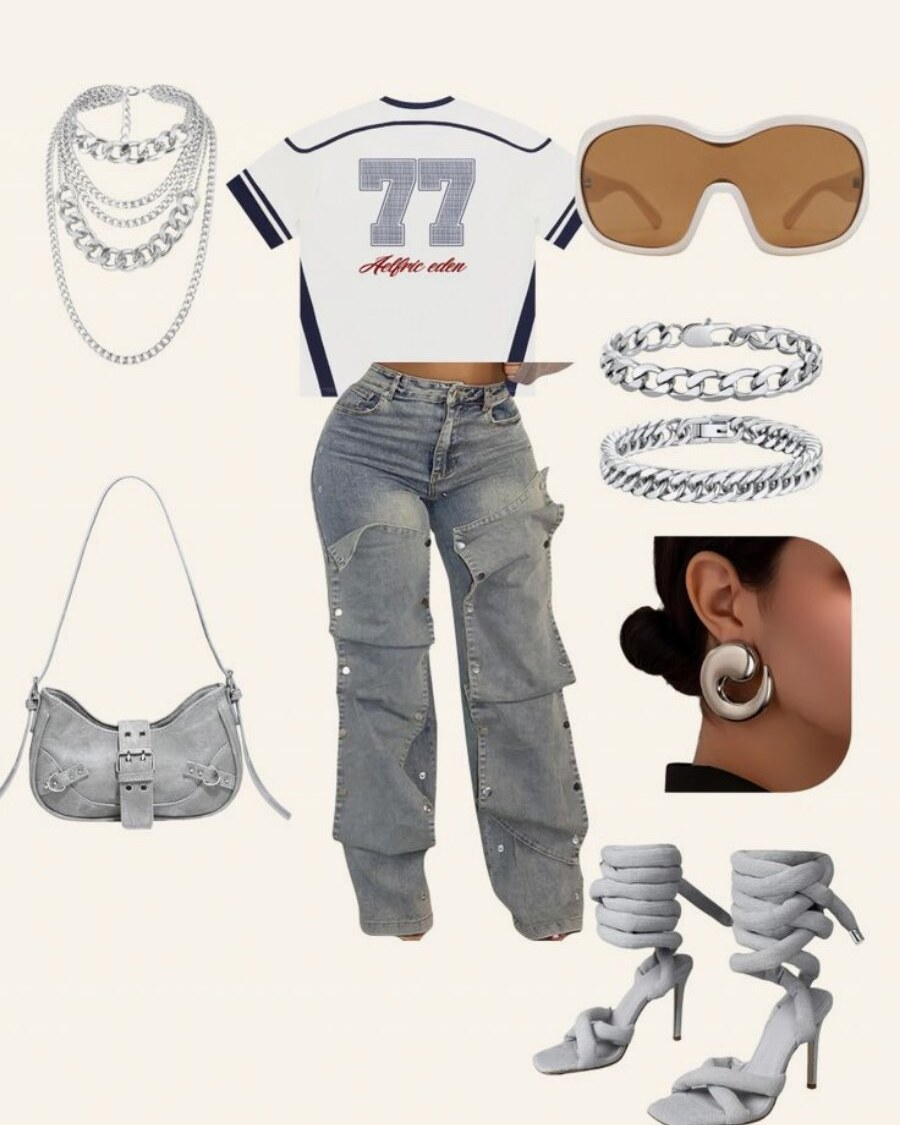
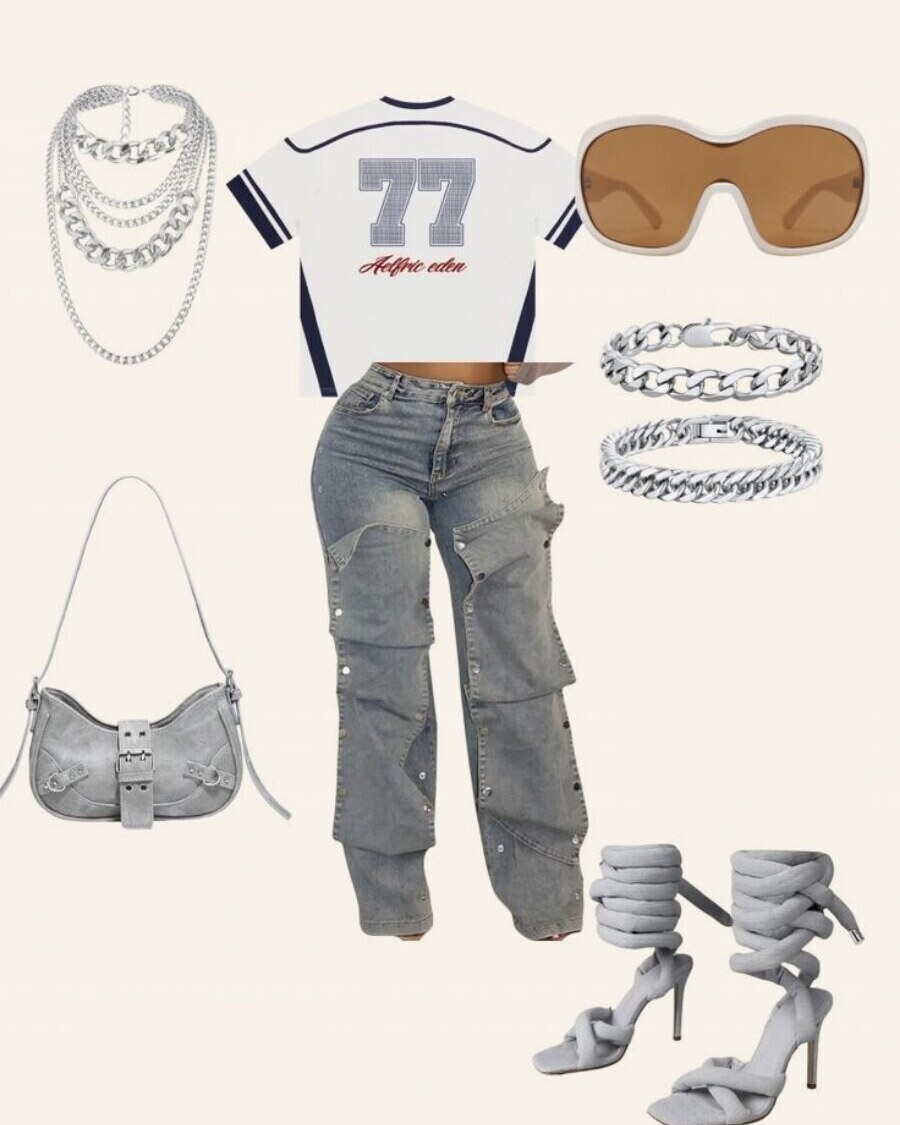
Lookbook: same card order on every look, softer polka dots, pill behind the handle, corner portrait removed from the day-out board
Claude-Session: https://claude.ai/code/session_01FUdN8BrrqRcBgv91ujUewX

Changed region(s): [[0.6844, 0.4667, 0.9644, 0.7156]]

diff --git a/theme.css b/theme.css
@@ -951,7 +951,7 @@ main p,section p{max-width:56ch;}
 .price small,.vd-prices small,.price span{font-family:var(--font-body);font-size:13px;}
 
 /* ---------- Lookbook: "daily edit" layout (blush polka dots, scalloped plates) ---------- */
-.lbk-wall{background-color:#F3D8D0; background-image:radial-gradient(circle at 16px 16px, rgba(255,255,255,.92) 0 9px, transparent 10px), radial-gradient(circle at 44px 44px, rgba(255,255,255,.92) 0 9px, transparent 10px); background-size:56px 56px; padding:clamp(2.2rem,6vw,4rem) 20px clamp(2.4rem,6vw,4rem);}
+.lbk-wall{background-color:#F3D8D0; background-image:radial-gradient(circle at 16px 16px, rgba(255,255,255,.62) 0 9px, transparent 10px), radial-gradient(circle at 44px 44px, rgba(255,255,255,.62) 0 9px, transparent 10px); background-size:56px 56px; padding:clamp(2.2rem,6vw,4rem) 20px clamp(2.4rem,6vw,4rem);}
 .lbk-hero{max-width:640px; margin:0 auto; text-align:center; padding-bottom:clamp(2rem,6vw,3.4rem);}
 .lbk-eyebrow{margin:0 0 .5rem; font:500 11px var(--font-body); letter-spacing:.34em; text-transform:uppercase; color:#8B1226;}
 .lbk-title{margin:0 0 1.2rem; font-family:var(--font-display); font-style:italic; font-weight:500; color:#2A1814; line-height:1; font-size:clamp(3rem,15vw,5.8rem); letter-spacing:-.01em; text-transform:lowercase;}
@@ -962,14 +962,15 @@ main p,section p{max-width:56ch;}
 .lbk-photo{position:absolute; left:9%; top:7.5%; width:82%; height:85%; object-fit:cover; object-position:56% 30%; border-radius:26px 26px 22px 22px;}
 .lbk-sticker{position:absolute; right:-6%; top:-4%; width:30%; aspect-ratio:1; border-radius:50%; background:#fff; border:3px solid #8B1226; box-shadow:0 8px 12px -6px rgba(0,0,0,.35); display:flex; align-items:center; justify-content:center; transform:rotate(8deg);}
 .lbk-sticker img{width:68%; height:auto; display:block;}
-.lbk-hand{margin:1.4rem 0 0; font-family:var(--font-display); font-style:italic; font-size:1.15rem; color:#2A1814;}
+.lbk-hand{margin:1.5rem 0 0;}
+.lbk-hand span{display:inline-block; padding:.35rem 1rem; border-radius:999px; background:rgba(255,255,255,.78); font-family:var(--font-display); font-style:italic; font-size:1.15rem; color:#2A1814;}
 .lbk-looks{max-width:1100px; margin:0 auto;}
-.lbk-look{display:grid; grid-template-columns:1fr; gap:1.2rem; justify-items:center; padding:0 0 clamp(2.4rem,7vw,4rem);}
+.lbk-look{display:flex; flex-direction:column; align-items:center; gap:1.2rem; padding:0 0 clamp(2.4rem,7vw,4rem);}
 .lbk-pic{position:relative; display:block; width:min(100%,380px); aspect-ratio:900/1125; padding:0; border:0; background:none; cursor:zoom-in; filter:drop-shadow(0 18px 16px rgba(90,30,30,.26)); transition:transform .3s ease;}
 .lbk-pic:hover,.lbk-pic:focus-visible{transform:translateY(-3px) rotate(-.6deg);}
 .lbk-pic:focus-visible{outline:2px solid #8B1226; outline-offset:6px;}
 .lbk-art{position:absolute; left:9%; top:7%; width:82%; height:86%; object-fit:cover; mix-blend-mode:multiply; filter:brightness(1.09);}
-.lbk-info{width:min(100%,380px);}
+.lbk-info{width:min(100%,380px); background:rgba(255,255,255,.55); border-radius:14px; padding:.9rem 1rem 1rem;}
 .lbk-idx{display:flex; justify-content:space-between; margin:0 0 .7rem; padding-bottom:.6rem; border-bottom:1.5px solid #2A1814; font:500 11px var(--font-body); letter-spacing:.26em; text-transform:uppercase; color:#2A1814;}
 .lbk-idx span:last-child{color:#8B1226;}
 .lbk-name{margin:0 0 1.1rem; font-family:var(--font-display); font-style:italic; font-weight:500; font-size:clamp(1.8rem,6.4vw,2.4rem); line-height:1.05; color:#2A1814;}
@@ -979,7 +980,7 @@ main p,section p{max-width:56ch;}
 .rsq i > i{padding:19%;}
 .lbk-cols{list-style:none; margin:0; padding:0; display:grid; gap:.32rem;}
 .lbk-cols li{display:flex; align-items:center; gap:.55rem; font:500 11px var(--font-body); letter-spacing:.16em; text-transform:uppercase; color:#2A1814;}
-.lbk-cols b{width:10px; height:10px; flex:none; border-radius:50%; box-shadow:0 0 0 2px #fff;}
+.lbk-cols b{width:11px; height:11px; flex:none; border-radius:50%; box-shadow:0 0 0 1px rgba(42,24,20,.35), 0 0 0 3px #fff;}
 .lbk-end{background:#6A1020; color:#FCF3EE; text-align:center; padding:clamp(2.8rem,8vw,4.6rem) 20px clamp(2.4rem,7vw,3.6rem);}
 .lbk-end p{max-width:none; margin-left:auto; margin-right:auto;}
 .lbk-end-mark{margin:0 0 .6rem; font-family:var(--font-display); font-style:italic; font-weight:500; font-size:clamp(2.4rem,10vw,3.8rem); line-height:1;}
@@ -990,11 +991,9 @@ main p,section p{max-width:56ch;}
 .lbk-btn:hover,.lbk-btn:focus-visible{background:#F3D8D0; border-color:#F3D8D0; color:#6A1020;}
 .lbk-note{margin:0; font-size:12px; color:#D7B1AB;}
 @media (min-width:900px){
-  .lbk-look{grid-template-columns:minmax(0,1fr) minmax(0,1fr); gap:clamp(2rem,6vw,5rem); align-items:center; justify-items:stretch;}
-  .lbk-pic{justify-self:end; width:min(100%,400px);}
-  .lbk-info{justify-self:start;}
-  .lbk-look:nth-child(even) .lbk-pic{order:2; justify-self:start;}
-  .lbk-look:nth-child(even) .lbk-info{order:1; justify-self:end;}
+  .lbk-looks{display:grid; grid-template-columns:repeat(2,minmax(0,1fr)); gap:0 clamp(2rem,6vw,5rem); max-width:960px;}
+  .lbk-pic{width:min(100%,400px);}
+  .lbk-info{width:min(100%,400px);}
   .lbk-end-btns{flex-direction:row; max-width:none; justify-content:center;}
   .lbk-btn{min-width:230px;}
   .lbk-pl{width:360px;}

diff --git a/digital-coloring-book.html b/digital-coloring-book.html
@@ -24,7 +24,7 @@
 <link rel="preconnect" href="https://fonts.googleapis.com">
 <link rel="preconnect" href="https://fonts.gstatic.com" crossorigin>
 <link href="https://fonts.googleapis.com/css2?family=Cormorant+Garamond:ital,wght@0,400;0,500;0,600;1,400&family=Plus+Jakarta+Sans:wght@400;500;600&display=swap" rel="stylesheet">
-<link rel="stylesheet" href="theme.css?v=c7718374">
+<link rel="stylesheet" href="theme.css?v=804658d0">
 <link rel="preload" as="image" href="images/digitals/coloring-book-cover.jpg" fetchpriority="high">
 <script type="application/ld+json">{"@context":"https://schema.org","@type":"Product","name":"The HerStyleVault Fashion & Cocktail Coloring Book","description":"A chic escape where classic cocktail culture meets high-fashion aesthetics. Each chapter pairs an iconic drink with curated style illustrations and a little cocktail history, made for slow evenings and creative self-care.","image":["https://herstylevault.com/images/digitals/coloring-book-cover.jpg"],"brand":{"@type":"Brand","name":"HerStyleVault"},"url":"https://herstylevault.com/digital-coloring-book.html","category":"windown","offers":{"@type":"AggregateOffer","priceCurrency":"USD","lowPrice":"14.99","highPrice":"44.99","offerCount":4,"offers":[{"@type":"Offer","name":"Coloring Book: Digital PDF","price":"14.99","priceCurrency":"USD","url":"https://herstylevault.com/digital-coloring-book.html","availability":"https://schema.org/PreOrder","itemCondition":"https://schema.org/NewCondition","seller":{"@type":"Organization","name":"HerStyleVault"}},{"@type":"Offer","name":"Coloring Book: Paper Copy","price":"29.99","priceCurrency":"USD","url":"https://herstylevault.com/digital-coloring-book.html","availability":"https://schema.org/PreOrder","itemCondition":"https://schema.org/NewCondition","seller":{"@type":"Organization","name":"HerStyleVault"}},{"@type":"Offer","name":"Coloring Book: Hard Copy","price":"44.99","priceCurrency":"USD","url":"https://herstylevault.com/digital-coloring-book.html","availability":"https://schema.org/PreOrder","itemCondition":"https://schema.org/NewCondition","seller":{"@type":"Organization","name":"HerStyleVault"}},{"@type":"Offer","name":"Coloring Book: Digital + Paper Copy","price":"34.99","priceCurrency":"USD","url":"https://herstylevault.com/digital-coloring-book.html","availability":"https://schema.org/PreOrder","itemCondition":"https://schema.org/NewCondition","seller":{"@type":"Organization","name":"HerStyleVault"}}]}}</script>
 <script type="application/ld+json">{"@context":"https://schema.org","@type":"BreadcrumbList","itemListElement":[{"@type":"ListItem","position":1,"name":"Home","item":"https://herstylevault.com/"},{"@type":"ListItem","position":2,"name":"Vault Digitals","item":"https://herstylevault.com/vault-digitals.html"},{"@type":"ListItem","position":3,"name":"The HerStyleVault Fashion & Cocktail Coloring Book","item":"https://herstylevault.com/digital-coloring-book.html"}]}</script>

diff --git a/locations.html b/locations.html
@@ -24,7 +24,7 @@
 <link rel="preconnect" href="https://fonts.googleapis.com">
 <link rel="preconnect" href="https://fonts.gstatic.com" crossorigin>
 <link href="https://fonts.googleapis.com/css2?family=Cormorant+Garamond:ital,wght@0,400;0,500;0,600;1,400&family=Plus+Jakarta+Sans:wght@400;500;600&display=swap" rel="stylesheet">
-<link rel="stylesheet" href="theme.css?v=c7718374">
+<link rel="stylesheet" href="theme.css?v=804658d0">
 <script type="application/ld+json">{"@context": "https://schema.org", "@type": ["ProfessionalService", "LocalBusiness"], "@id": "https://herstylevault.com/#business", "name": "HerStyleVault", "description": "Personal stylist serving Greater Boston, Northern Massachusetts and Southern New Hampshire in person, and clients anywhere in the US virtually. Free first consultation.", "url": "https://herstylevault.com", "email": "hello@herstylevault.com", "image": "https://herstylevault.com/images/Hero_Closet.jpg", "priceRange": "$28.99-$725", "founder": {"@type": "Person", "name": "Adebisi"}, "address": {"@type": "PostalAddress", "addressRegion": "MA", "addressCountry": "US"}, "areaServed": [{"@type": "AdministrativeArea", "name": "Greater Boston, MA"}, {"@type": "AdministrativeArea", "name": "Northern Massachusetts"}, {"@type": "AdministrativeArea", "name": "Southern New Hampshire"}, {"@type": "Country", "name": "United States", "description": "Virtual styling available nationwide"}], "serviceType": ["Personal styling", "Color analysis", "Body shape styling", "Wardrobe consulting", "Closet declutter and organization", "Outfit building"], "knowsAbout": ["Personal styling", "Seasonal color analysis", "Capsule wardrobes", "Wardrobe declutter"], "hasOfferCatalog": {"@type": "OfferCatalog", "name": "Styling packages and services", "itemListElement": [{"@type": "Offer", "name": "The Unlock (3 sessions, 5 outfit builds)", "price": "225", "priceCurrency": "USD", "url": "https://herstylevault.com/packages.html"}, {"@type": "Offer", "name": "The Vault Edit (4 sessions, 7 outfit builds)", "price": "400", "priceCurrency": "USD", "url": "https://herstylevault.com/packages.html"}, {"@type": "Offer", "name": "The Full Reveal (5 sessions, 10 outfit builds, in person)", "price": "725", "priceCurrency": "USD", "url": "https://herstylevault.com/packages.html"}, {"@type": "Offer", "name": "Signature Style Report", "price": "40", "priceCurrency": "USD", "url": "https://herstylevault.com/digital-signature-style-report.html"}]}, "sameAs": ["https://instagram.com/herstylevault.official", "https://pinterest.com/HerStyleVault"]}</script>
 </head>
 <body>

diff --git a/lookbook.html b/lookbook.html
@@ -24,7 +24,7 @@
 <link rel="preconnect" href="https://fonts.googleapis.com">
 <link rel="preconnect" href="https://fonts.gstatic.com" crossorigin>
 <link href="https://fonts.googleapis.com/css2?family=Cormorant+Garamond:ital,wght@0,400;0,500;0,600;1,400&family=Plus+Jakarta+Sans:wght@400;500;600&display=swap" rel="stylesheet">
-<link rel="stylesheet" href="theme.css?v=c7718374">
+<link rel="stylesheet" href="theme.css?v=804658d0">
 </head>
 <body>
 <header class="site"><nav><div class="nav-mount"></div></nav></header>
@@ -34,7 +34,7 @@
 <p class="lbk-eyebrow">Vol. 01 &middot; Fall &middot; Winter</p>
 <h1 class="lbk-title" id="lbkTitle"><span class="h1-kw">Personal Styling Lookbook</span><span aria-hidden="true">the lookbook</span></h1>
 <div class="lbk-me" id="lbkMe"></div>
-<p class="lbk-hand">@herstylevault.official</p>
+<p class="lbk-hand"><span>@herstylevault.official</span></p>
 </section>
 
 <section class="lbk-looks" id="lookGrid" aria-label="The looks"></section>
@@ -73,10 +73,10 @@
   grid.innerHTML = LOOKBOOK.map(function(i, n){
     var num = ('0' + (n + 1)).slice(-2);
     return '<article class="lbk-look">' +
-      '<button type="button" class="lbk-pic look-open" data-n="' + n + '" aria-label="View bigger: ' + i.title + '">' + plate() + '<img class="lbk-art" src="' + i.art + '" alt="' + i.alt + '" loading="lazy"></button>' +
       '<div class="lbk-info"><p class="lbk-idx"><span>' + num + ' / ' + ('0' + LOOKBOOK.length).slice(-2) + '</span><span>' + i.tag + '</span></p>' +
       '<h2 class="lbk-name">' + i.title + '</h2>' +
-      '<div class="lbk-pal">' + ripple(i.colors) + '<ul class="lbk-cols">' + i.colors.map(function(c){ return '<li><b style="background:' + c[1] + '"></b>' + c[0] + '</li>'; }).join('') + '</ul></div></div></article>';
+      '<div class="lbk-pal">' + ripple(i.colors) + '<ul class="lbk-cols">' + i.colors.map(function(c){ return '<li><b style="background:' + c[1] + '"></b>' + c[0] + '</li>'; }).join('') + '</ul></div></div>' +
+      '<button type="button" class="lbk-pic look-open" data-n="' + n + '" aria-label="View bigger: ' + i.title + '">' + plate() + '<img class="lbk-art" src="' + i.art + '" alt="' + i.alt + '" loading="lazy"></button></article>';
   }).join('');
   function close(){ var m = document.getElementById('lookBox'); if (m) { m.parentNode.removeChild(m); document.body.style.overflow = ''; document.removeEventListener('keydown', esc); } }
   function esc(e){ if (e.key === 'Escape') close(); }

diff --git a/service-occasion-edit.html b/service-occasion-edit.html
@@ -24,7 +24,7 @@
 <link rel="preconnect" href="https://fonts.googleapis.com">
 <link rel="preconnect" href="https://fonts.gstatic.com" crossorigin>
 <link href="https://fonts.googleapis.com/css2?family=Cormorant+Garamond:ital,wght@0,400;0,500;0,600;1,400&family=Plus+Jakarta+Sans:wght@400;500;600&display=swap" rel="stylesheet">
-<link rel="stylesheet" href="theme.css?v=c7718374">
+<link rel="stylesheet" href="theme.css?v=804658d0">
 <link rel="preload" as="image" href="images/offers/occasion-edit.jpg" fetchpriority="high">
 <script type="application/ld+json">{"@context":"https://schema.org","@type":"Service","name":"Occasion Edit","serviceType":"Personal styling service","description":"Tell me what it's for and walk in knowing exactly what to wear.","url":"https://herstylevault.com/service-occasion-edit.html","image":"https://herstylevault.com/images/share/service-occasion-edit.jpg","provider":{"@id":"https://herstylevault.com/#business"},"areaServed":[{"@type":"AdministrativeArea","name":"Greater Boston, MA"},{"@type":"AdministrativeArea","name":"Northern Massachusetts"},{"@type":"AdministrativeArea","name":"Southern New Hampshire"},{"@type":"Country","name":"United States","description":"Virtual"}],"offers":{"@type":"AggregateOffer","priceCurrency":"USD","lowPrice":"55.00","highPrice":"260.00","offerCount":3,"offers":[{"@type":"Offer","name":"Occasion Edit (Quick Fit)","price":"55","priceCurrency":"USD","url":"https://herstylevault.com/service-occasion-edit.html","availability":"https://schema.org/InStock"},{"@type":"Offer","name":"Occasion Edit (Standard)","price":"160","priceCurrency":"USD","url":"https://herstylevault.com/service-occasion-edit.html","availability":"https://schema.org/InStock"},{"@type":"Offer","name":"Occasion Edit (Max)","price":"260","priceCurrency":"USD","url":"https://herstylevault.com/service-occasion-edit.html","availability":"https://schema.org/InStock"}]}}</script>
 <script type="application/ld+json">{"@context":"https://schema.org","@type":"BreadcrumbList","itemListElement":[{"@type":"ListItem","position":1,"name":"Home","item":"https://herstylevault.com/"},{"@type":"ListItem","position":2,"name":"À La Carte Services","item":"https://herstylevault.com/services.html"},{"@type":"ListItem","position":3,"name":"Occasion Edit","item":"https://herstylevault.com/service-occasion-edit.html"}]}</script>

diff --git a/service-wardrobe-detox.html b/service-wardrobe-detox.html
@@ -24,7 +24,7 @@
 <link rel="preconnect" href="https://fonts.googleapis.com">
 <link rel="preconnect" href="https://fonts.gstatic.com" crossorigin>
 <link href="https://fonts.googleapis.com/css2?family=Cormorant+Garamond:ital,wght@0,400;0,500;0,600;1,400&family=Plus+Jakarta+Sans:wght@400;500;600&display=swap" rel="stylesheet">
-<link rel="stylesheet" href="theme.css?v=c7718374">
+<link rel="stylesheet" href="theme.css?v=804658d0">
 <link rel="preload" as="image" href="images/offers/the-wardrobe-detox.jpg" fetchpriority="high">
 <script type="application/ld+json">{"@context":"https://schema.org","@type":"Service","name":"The Wardrobe Detox","serviceType":"Personal styling service","description":"A full declutter and reorganize of your closet, done in person in one sitting.","url":"https://herstylevault.com/service-wardrobe-detox.html","image":"https://herstylevault.com/images/share/service-wardrobe-detox.jpg","provider":{"@id":"https://herstylevault.com/#business"},"areaServed":[{"@type":"AdministrativeArea","name":"Greater Boston, MA"},{"@type":"AdministrativeArea","name":"Northern Massachusetts"},{"@type":"AdministrativeArea","name":"Southern New Hampshire"},{"@type":"Country","name":"United States","description":"Virtual"}],"offers":{"@type":"AggregateOffer","priceCurrency":"USD","lowPrice":"225.00","highPrice":"450.00","offerCount":2,"offers":[{"@type":"Offer","name":"The Wardrobe Detox (Half Day)","price":"225","priceCurrency":"USD","url":"https://herstylevault.com/service-wardrobe-detox.html","availability":"https://schema.org/InStock"},{"@type":"Offer","name":"The Wardrobe Detox (Full Day)","price":"450","priceCurrency":"USD","url":"https://herstylevault.com/service-wardrobe-detox.html","availability":"https://schema.org/InStock"}]}}</script>
 <script type="application/ld+json">{"@context":"https://schema.org","@type":"BreadcrumbList","itemListElement":[{"@type":"ListItem","position":1,"name":"Home","item":"https://herstylevault.com/"},{"@type":"ListItem","position":2,"name":"À La Carte Services","item":"https://herstylevault.com/services.html"},{"@type":"ListItem","position":3,"name":"The Wardrobe Detox","item":"https://herstylevault.com/service-wardrobe-detox.html"}]}</script>

diff --git a/service-mini-collection.html b/service-mini-collection.html
@@ -24,7 +24,7 @@
 <link rel="preconnect" href="https://fonts.googleapis.com">
 <link rel="preconnect" href="https://fonts.gstatic.com" crossorigin>
 <link href="https://fonts.googleapis.com/css2?family=Cormorant+Garamond:ital,wght@0,400;0,500;0,600;1,400&family=Plus+Jakarta+Sans:wght@400;500;600&display=swap" rel="stylesheet">
-<link rel="stylesheet" href="theme.css?v=c7718374">
+<link rel="stylesheet" href="theme.css?v=804658d0">
 <link rel="preload" as="image" href="images/offers/the-mini-collection.jpg" fetchpriority="high">
 <script type="application/ld+json">{"@context":"https://schema.org","@type":"Service","name":"The Mini Collection","serviceType":"Personal styling service","description":"Everything mixes, nothing's wasted.","url":"https://herstylevault.com/service-mini-collection.html","image":"https://herstylevault.com/images/share/service-mini-collection.jpg","provider":{"@id":"https://herstylevault.com/#business"},"areaServed":[{"@type":"AdministrativeArea","name":"Greater Boston, MA"},{"@type":"AdministrativeArea","name":"Northern Massachusetts"},{"@type":"AdministrativeArea","name":"Southern New Hampshire"},{"@type":"Country","name":"United States","description":"Virtual"}],"offers":{"@type":"AggregateOffer","priceCurrency":"USD","lowPrice":"240.00","highPrice":"380.00","offerCount":2,"offers":[{"@type":"Offer","name":"The Mini Collection (Standard)","price":"240","priceCurrency":"USD","url":"https://herstylevault.com/service-mini-collection.html","availability":"https://schema.org/InStock"},{"@type":"Offer","name":"The Mini Collection (Max)","price":"380","priceCurrency":"USD","url":"https://herstylevault.com/service-mini-collection.html","availability":"https://schema.org/InStock"}]}}</script>
 <script type="application/ld+json">{"@context":"https://schema.org","@type":"BreadcrumbList","itemListElement":[{"@type":"ListItem","position":1,"name":"Home","item":"https://herstylevault.com/"},{"@type":"ListItem","position":2,"name":"À La Carte Services","item":"https://herstylevault.com/services.html"},{"@type":"ListItem","position":3,"name":"The Mini Collection","item":"https://herstylevault.com/service-mini-collection.html"}]}</script>

diff --git a/service-ensemble.html b/service-ensemble.html
@@ -24,7 +24,7 @@
 <link rel="preconnect" href="https://fonts.googleapis.com">
 <link rel="preconnect" href="https://fonts.gstatic.com" crossorigin>
 <link href="https://fonts.googleapis.com/css2?family=Cormorant+Garamond:ital,wght@0,400;0,500;0,600;1,400&family=Plus+Jakarta+Sans:wght@400;500;600&display=swap" rel="stylesheet">
-<link rel="stylesheet" href="theme.css?v=c7718374">
+<link rel="stylesheet" href="theme.css?v=804658d0">
 <link rel="preload" as="image" href="images/offers/the-ensemble.jpg" fetchpriority="high">
 <script type="application/ld+json">{"@context":"https://schema.org","@type":"Service","name":"The Ensemble","serviceType":"Personal styling service","description":"Everyone gets their own fit, pulled around one shared vibe.","url":"https://herstylevault.com/service-ensemble.html","image":"https://herstylevault.com/images/share/service-ensemble.jpg","provider":{"@id":"https://herstylevault.com/#business"},"areaServed":[{"@type":"AdministrativeArea","name":"Greater Boston, MA"},{"@type":"AdministrativeArea","name":"Northern Massachusetts"},{"@type":"AdministrativeArea","name":"Southern New Hampshire"},{"@type":"Country","name":"United States","description":"Virtual"}],"offers":{"@type":"AggregateOffer","priceCurrency":"USD","lowPrice":"95.00","highPrice":"110.00","offerCount":2,"offers":[{"@type":"Offer","name":"The Ensemble (Per Person)","price":"110","priceCurrency":"USD","url":"https://herstylevault.com/service-ensemble.html","availability":"https://schema.org/InStock"},{"@type":"Offer","name":"The Ensemble (3+ People)","price":"95","priceCurrency":"USD","url":"https://herstylevault.com/service-ensemble.html","availability":"https://schema.org/InStock"}]}}</script>
 <script type="application/ld+json">{"@context":"https://schema.org","@type":"BreadcrumbList","itemListElement":[{"@type":"ListItem","position":1,"name":"Home","item":"https://herstylevault.com/"},{"@type":"ListItem","position":2,"name":"À La Carte Services","item":"https://herstylevault.com/services.html"},{"@type":"ListItem","position":3,"name":"The Ensemble","item":"https://herstylevault.com/service-ensemble.html"}]}</script>

diff --git a/package-full-reveal.html b/package-full-reveal.html
@@ -24,7 +24,7 @@
 <link rel="preconnect" href="https://fonts.googleapis.com">
 <link rel="preconnect" href="https://fonts.gstatic.com" crossorigin>
 <link href="https://fonts.googleapis.com/css2?family=Cormorant+Garamond:ital,wght@0,400;0,500;0,600;1,400&family=Plus+Jakarta+Sans:wght@400;500;600&display=swap" rel="stylesheet">
-<link rel="stylesheet" href="theme.css?v=c7718374">
+<link rel="stylesheet" href="theme.css?v=804658d0">
 <link rel="preload" as="image" href="images/offers/the-full-reveal.jpg" fetchpriority="high">
 <script type="application/ld+json">{"@context":"https://schema.org","@type":"Service","name":"The Full Reveal","serviceType":"Personal styling package","description":"A closet audit, three real shopping trips together, and ten complete outfit builds, ending in a try-on reveal of every final look.","url":"https://herstylevault.com/package-full-reveal.html","image":"https://herstylevault.com/images/share/package-full-reveal.jpg","provider":{"@id":"https://herstylevault.com/#business"},"areaServed":[{"@type":"AdministrativeArea","name":"Greater Boston, MA"},{"@type":"AdministrativeArea","name":"Northern Massachusetts"},{"@type":"AdministrativeArea","name":"Southern New Hampshire"},{"@type":"Country","name":"United States","description":"Virtual"}],"offers":{"@type":"Offer","name":"The Full Reveal","price":"725","priceCurrency":"USD","url":"https://herstylevault.com/package-full-reveal.html","availability":"https://schema.org/InStock"}}</script>
 <script type="application/ld+json">{"@context":"https://schema.org","@type":"BreadcrumbList","itemListElement":[{"@type":"ListItem","position":1,"name":"Home","item":"https://herstylevault.com/"},{"@type":"ListItem","position":2,"name":"Private Styling Packages","item":"https://herstylevault.com/packages.html"},{"@type":"ListItem","position":3,"name":"The Full Reveal","item":"https://herstylevault.com/package-full-reveal.html"}]}</script>

diff --git a/package-vault-edit.html b/package-vault-edit.html
@@ -24,7 +24,7 @@
 <link rel="preconnect" href="https://fonts.googleapis.com">
 <link rel="preconnect" href="https://fonts.gstatic.com" crossorigin>
 <link href="https://fonts.googleapis.com/css2?family=Cormorant+Garamond:ital,wght@0,400;0,500;0,600;1,400&family=Plus+Jakarta+Sans:wght@400;500;600&display=swap" rel="stylesheet">
-<link rel="stylesheet" href="theme.css?v=c7718374">
+<link rel="stylesheet" href="theme.css?v=804658d0">
 <link rel="preload" as="image" href="images/offers/the-vault-edit.jpg" fetchpriority="high">
 <script type="application/ld+json">{"@context":"https://schema.org","@type":"Service","name":"The Vault Edit","serviceType":"Personal styling package","description":"Seven complete outfit builds, a personalized shopping list, and everything you need to keep your closet working for you.","url":"https://herstylevault.com/package-vault-edit.html","image":"https://herstylevault.com/images/share/package-vault-edit.jpg","provider":{"@id":"https://herstylevault.com/#business"},"areaServed":[{"@type":"AdministrativeArea","name":"Greater Boston, MA"},{"@type":"AdministrativeArea","name":"Northern Massachusetts"},{"@type":"AdministrativeArea","name":"Southern New Hampshire"},{"@type":"Country","name":"United States","description":"Virtual"}],"offers":{"@type":"Offer","name":"The Vault Edit","price":"400","priceCurrency":"USD","url":"https://herstylevault.com/package-vault-edit.html","availability":"https://schema.org/InStock"}}</script>
 <script type="application/ld+json">{"@context":"https://schema.org","@type":"BreadcrumbList","itemListElement":[{"@type":"ListItem","position":1,"name":"Home","item":"https://herstylevault.com/"},{"@type":"ListItem","position":2,"name":"Private Styling Packages","item":"https://herstylevault.com/packages.html"},{"@type":"ListItem","position":3,"name":"The Vault Edit","item":"https://herstylevault.com/package-vault-edit.html"}]}</script>

diff --git a/digital-wardrobe-detox-bundle.html b/digital-wardrobe-detox-bundle.html
@@ -24,7 +24,7 @@
 <link rel="preconnect" href="https://fonts.googleapis.com">
 <link rel="preconnect" href="https://fonts.gstatic.com" crossorigin>
 <link href="https://fonts.googleapis.com/css2?family=Cormorant+Garamond:ital,wght@0,400;0,500;0,600;1,400&family=Plus+Jakarta+Sans:wght@400;500;600&display=swap" rel="stylesheet">
-<link rel="stylesheet" href="theme.css?v=c7718374">
+<link rel="stylesheet" href="theme.css?v=804658d0">
 <link rel="preload" as="image" href="images/digitals/detox-guide-cover.jpg" fetchpriority="high">
 <script type="application/ld+json">{"@context":"https://schema.org","@type":"Product","name":"The Wardrobe Detox Bundle","description":"The Wardrobe Detox Bundle is the calm, step-by-step method I use to clear a closet without the overwhelm. Choose the 11-page Guide for the full zone-by-zone reset, or the one-page Checklist when you want the quick version.","image":["https://herstylevault.com/images/digitals/detox-bundle-cover.jpg"],"brand":{"@type":"Brand","name":"HerStyleVault"},"url":"https://herstylevault.com/digital-wardrobe-detox-bundle.html","category":"guides","offers":{"@type":"Offer","name":"The Wardrobe Detox Guide","price":"28.99","priceCurrency":"USD","url":"https://herstylevault.com/digital-wardrobe-detox-bundle.html","availability":"https://schema.org/InStock","itemCondition":"https://schema.org/NewCondition","seller":{"@type":"Organization","name":"HerStyleVault"}}}</script>
 <script type="application/ld+json">{"@context":"https://schema.org","@type":"BreadcrumbList","itemListElement":[{"@type":"ListItem","position":1,"name":"Home","item":"https://herstylevault.com/"},{"@type":"ListItem","position":2,"name":"Vault Digitals","item":"https://herstylevault.com/vault-digitals.html"},{"@type":"ListItem","position":3,"name":"The Wardrobe Detox Bundle","item":"https://herstylevault.com/digital-wardrobe-detox-bundle.html"}]}</script>

diff --git a/package-unlock.html b/package-unlock.html
@@ -24,7 +24,7 @@
 <link rel="preconnect" href="https://fonts.googleapis.com">
 <link rel="preconnect" href="https://fonts.gstatic.com" crossorigin>
 <link href="https://fonts.googleapis.com/css2?family=Cormorant+Garamond:ital,wght@0,400;0,500;0,600;1,400&family=Plus+Jakarta+Sans:wght@400;500;600&display=swap" rel="stylesheet">
-<link rel="stylesheet" href="theme.css?v=c7718374">
+<link rel="stylesheet" href="theme.css?v=804658d0">
 <link rel="preload" as="image" href="images/offers/the-unlock.jpg" fetchpriority="high">
 <script type="application/ld+json">{"@context":"https://schema.org","@type":"Service","name":"The Unlock","serviceType":"Personal styling package","description":"Strip it back, find your style identity, and build five complete outfits around you.","url":"https://herstylevault.com/package-unlock.html","image":"https://herstylevault.com/images/share/package-unlock.jpg","provider":{"@id":"https://herstylevault.com/#business"},"areaServed":[{"@type":"AdministrativeArea","name":"Greater Boston, MA"},{"@type":"AdministrativeArea","name":"Northern Massachusetts"},{"@type":"AdministrativeArea","name":"Southern New Hampshire"},{"@type":"Country","name":"United States","description":"Virtual"}],"offers":{"@type":"Offer","name":"The Unlock","price":"225","priceCurrency":"USD","url":"https://herstylevault.com/package-unlock.html","availability":"https://schema.org/InStock"}}</script>
 <script type="application/ld+json">{"@context":"https://schema.org","@type":"BreadcrumbList","itemListElement":[{"@type":"ListItem","position":1,"name":"Home","item":"https://herstylevault.com/"},{"@type":"ListItem","position":2,"name":"Private Styling Packages","item":"https://herstylevault.com/packages.html"},{"@type":"ListItem","position":3,"name":"The Unlock","item":"https://herstylevault.com/package-unlock.html"}]}</script>
